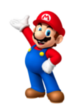
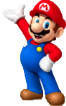
1调整了mario透明背景  2 提取了collapse_check_core函数

diff --git a/hell_test/hell_test.html b/hell_test/hell_test.html
@@ -151,12 +151,10 @@
                  var brick_dimension={top:brick_top,left:brick_left,right:brick_left+BRICK_WIDTH,bottom:brick_top+BRICK_HEIGHT};
                  //console.log(brick_dimension);
                  if( 
-                    (man_left_bottom.y>brick_dimension.top&&man_left_bottom.y<brick_dimension.bottom
-                      && man_left_bottom.x>brick_dimension.left&& man_left_bottom.x<brick_dimension.right)
+                    collpase_check_core(man_left_bottom,brick_dimension)
                     ||
-                    (man_right_bottom.y>brick_dimension.top&&man_right_bottom.y<brick_dimension.bottom
-                      && man_right_bottom.x>brick_dimension.left&& man_right_bottom.x<brick_dimension.right)
-                   )                 
+                    collpase_check_core(man_right_bottom,brick_dimension)     
+                   )          
                  {
                     console.log(brick_dimension);
                     man_speed=bg_speed;
@@ -167,6 +165,12 @@
               }
 
    
+          }
+          var collpase_check_core=function(point,dimension)
+          {
+               return (point.y>dimension.top&&point.y<dimension.bottom
+                      && point.x>dimension.left&& point.x<dimension.right)
+
           }
           setInterval(fn,200);
         }
